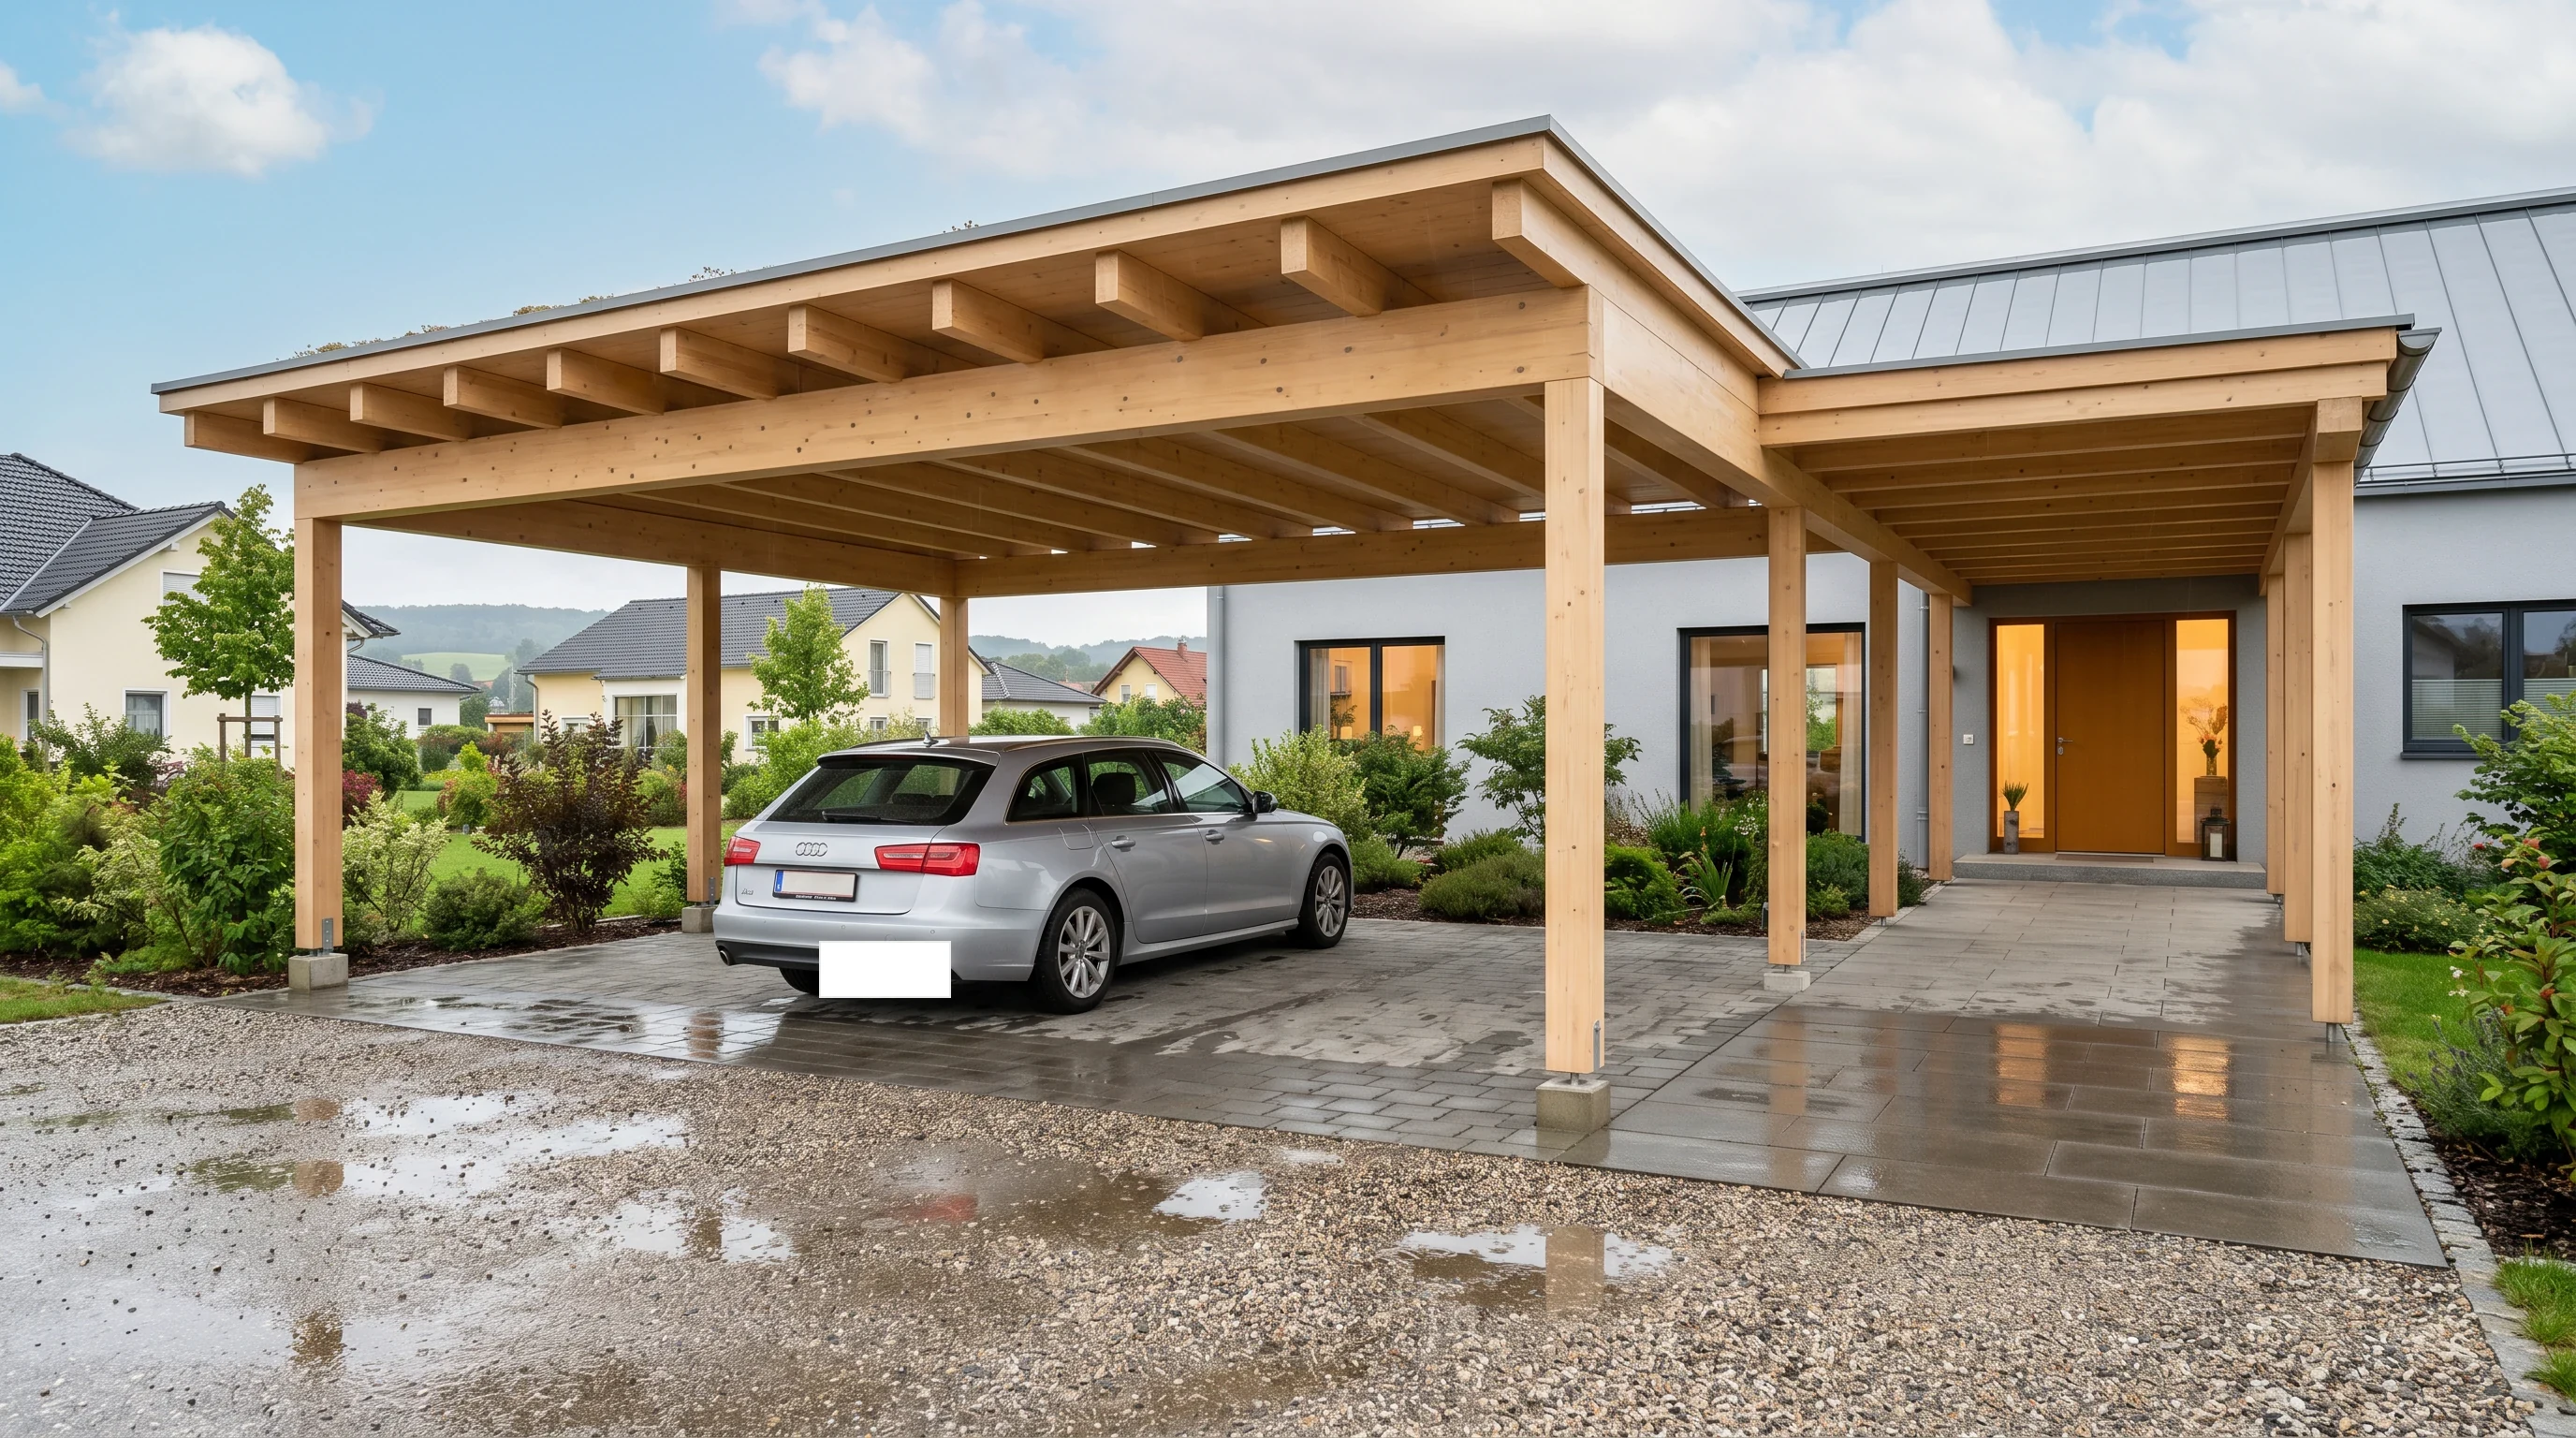
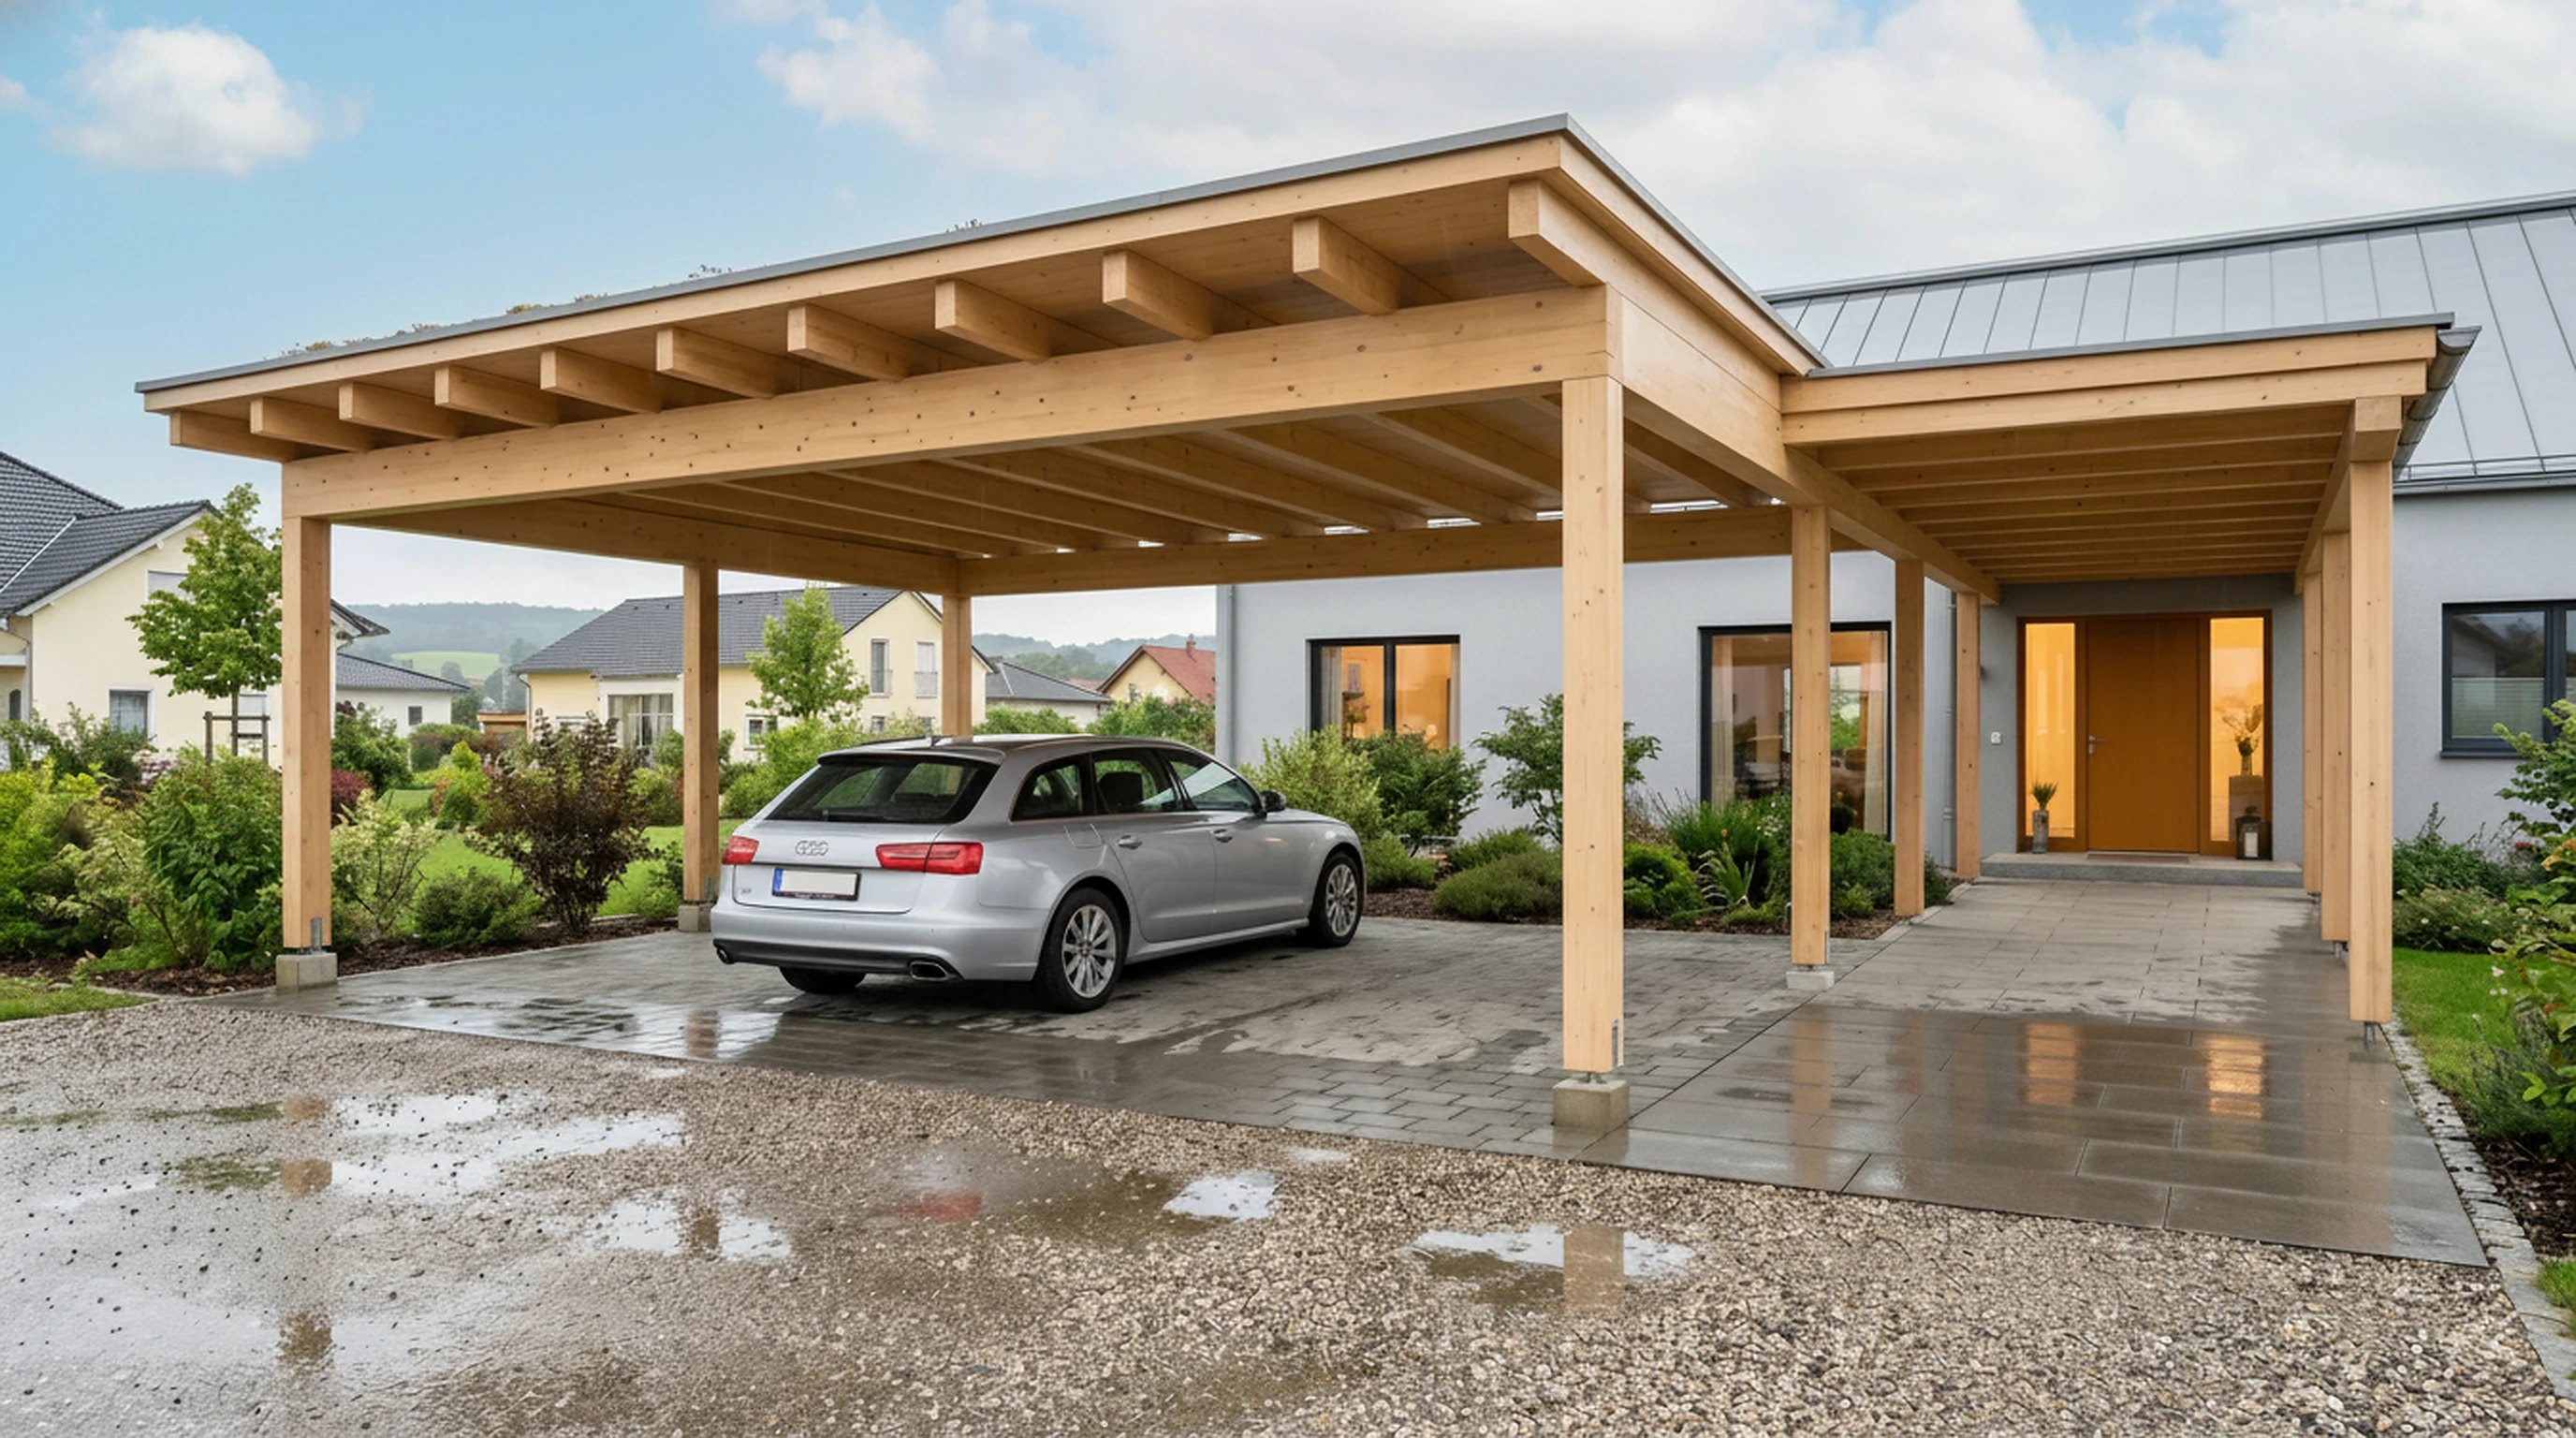
Fix carport gallery image artifacts

diff --git a/index.html b/index.html
@@ -1772,9 +1772,9 @@
             <figure class="scroll-scene"><img loading="lazy" src="assets/mp-lp-visual-plan-2026-05-27-kie/images/03_traditionell_satteldach.webp?v=20260527-layout-plates" alt="Satteldach-Carport passend zum klassischen Ziegeldach"></figure>
             <figure class="scroll-scene"><img loading="lazy" src="assets/mp-lp-visual-plan-2026-05-27-kie/images/04_landhaus_satteldach_honig.webp?v=20260527-entrance-fix" alt="Landhaus mit honigwarmem Holz-Carport und geschütztem Stellplatz"></figure>
             <figure class="scroll-scene"><img loading="lazy" src="assets/mp-lp-visual-plan-2026-05-27-kie/images/05_lfoermiger_eck_carport.webp?v=20260527-empty-fix" alt="L-förmiger Eck-Carport für schwierige Zufahrten und Nebenbereiche"></figure>
-            <figure class="scroll-scene"><img loading="lazy" src="assets/mp-lp-visual-plan-2026-05-27-kie/images/06_ueberdachter_weg_eingang-clean-kie.webp?v=20260527-clean-kie" alt="Carport mit überdachtem Weg zum Hauseingang"></figure>
+            <figure class="scroll-scene"><img loading="lazy" src="assets/mp-lp-visual-plan-2026-05-27-kie/images/06_ueberdachter_weg_eingang.webp?v=20260527-nanobanana-fix" alt="Carport mit überdachtem Weg zum Hauseingang"></figure>
             <figure class="scroll-scene"><img loading="lazy" src="assets/mp-lp-visual-plan-2026-05-27-kie/images/07_geraeteraum_holzlager_stauraum.webp?v=20260527-kie-plan" alt="Wunsch-Carport mit integriertem Stauraum für Garten und Alltag"></figure>
-            <figure class="scroll-scene"><img loading="lazy" src="assets/mp-lp-visual-plan-2026-05-27-kie/images/08_lamellenwand_wetterseite-clean-kie.webp?v=20260527-clean-kie" alt="Lamellenwand auf der Wetterseite für Schutz und Privatsphäre"></figure>
+            <figure class="scroll-scene"><img loading="lazy" src="assets/mp-lp-visual-plan-2026-05-27-kie/images/08_lamellenwand_wetterseite.webp?v=20260527-nanobanana-fix" alt="Lamellenwand auf der Wetterseite für Schutz und Privatsphäre"></figure>
             <figure class="scroll-scene"><img loading="lazy" src="assets/mp-carport-lp-balanced-2026-05-21/ref-01-car-double-clearance.webp?v=20260527-plate-safe" alt="Großzügiger Doppelcarport mit viel Bewegungsfläche"></figure>
             <figure class="scroll-scene"><img loading="lazy" src="assets/mp-lp-visual-plan-2026-05-27-kie/images/10_designer_dunkel_fassadenwand_lichtband.webp?v=20260527-no-walkway" alt="Dunkler Designer-Carport mit Fassadenwand und Lichtband"></figure>
           </div>
@@ -1785,7 +1785,7 @@
     <section class="section" id="team"><div class="wrap section-head"><div><p class="eyebrow">Werkstatt &amp; Team</p><h2>Geplant in Eisenstadt, gebaut von <span class="hl">Menschen mit Namen</span>.</h2></div><p class="lead">M&amp;P ist ein Familienbetrieb mit eigener Werkstatt, eigenen Lehrlingen und einem festen Team. Vom Aufmaß bis zur Montage liegt jeder Schritt in Händen, die Sie auf der Baustelle auch wirklich antreffen.</p></div><div class="wrap team-grid"><figure class="team-card"><div class="team-placeholder" data-ratio="3/2"><h3 class="ph-title">Team vor der Werkstatt</h3><p class="ph-note">Gruppenfoto: Peter Preissinger mit Mitarbeitern und Lehrlingen, freundlich, in Arbeitskleidung, vor Werkstatttor oder Holzlager. Querformat 3:2, Tageslicht.</p></div><figcaption>M&amp;P · Familienbetrieb seit 2004</figcaption></figure><figure class="team-card"><div class="team-placeholder" data-ratio="4/5"><h3 class="ph-title">Werkstatt-Interieur</h3><p class="ph-note">Hobelbank, Holzlager oder Abbundplatz. Warme Atmosphäre, gestapelte Lärche oder Eiche, sichtbares Werkzeug. Hochformat 4:5.</p></div><figcaption>Werkstatt · Abbund &amp; Vormontage</figcaption></figure><figure class="team-card"><div class="team-placeholder" data-ratio="4/5"><h3 class="ph-title">Hand am Holz</h3><p class="ph-note">Detailaufnahme: Hände beim Anzeichnen, Stemmen, Verbinden. Nah, Maserung sichtbar, ruhige Bildsprache. Hochformat 4:5.</p></div><figcaption>Ausführung · Handwerk im Detail</figcaption></figure></div><div class="wrap team-stats"><div class="team-stat"><b>Seit 2004</b><span>Familienbetrieb in Eisenstadt</span></div><div class="team-stat"><b>Meister &amp; Lehre</b><span>Eigene Ausbildung im Haus</span></div><div class="team-stat"><b>Eigene Werkstatt</b><span>Planung, Abbund und Montage aus einer Hand</span></div></div></section>
     <section class="section dark" id="planung"><div class="wrap section-head"><div><p class="eyebrow">Was M&P-Carports besonders macht</p><h2>Geplant, <span class="hl">bevor</span> das erste Brett bestellt wird.</h2></div><p class="lead">M&P plant Wirkung am Haus, Standsicherheit, Wasserführung, Fundamente und Alltag gemeinsam. Erst wenn diese Punkte zusammenpassen, bleibt nach der Montage wirklich Ruhe.</p></div><div class="wrap advisor-card action-advisor"><img src="assets/no-logo-workwear-2026-05-27-v2/peter_portrait_professional_workshop_plain_red_black_v2.webp?v=20260527-workshop-wood" alt="Peter Preissinger"><div class="quote-design"><p class="eyebrow">Mst. Peter Preissinger · Zimmermeister</p><blockquote>„Meine Carports passen zu 100% zum Haus — und genau deshalb schauen wir vorher so genau hin.“</blockquote><p>Proportion, Dachform, Holzbild und Position werden von M&P so gedacht, dass der Carport nicht wie nachträglich dazugestellt wirkt.</p></div></div><div class="wrap compare action-benefit-list"><article class="compare-card good"><h3>Mehr als nur ein Dach fürs Auto.</h3><ul class="icon-list"><li><img class="fa-icon" src="assets/icons/fa/ruler-combined.svg" alt="">genug Platz links und rechts vom Auto</li><li><img class="fa-icon" src="assets/icons/fa/umbrella.svg" alt="">trocken aussteigen ohne Verrenkungen</li><li><img class="fa-icon" src="assets/icons/fa/basket-shopping.svg" alt="">Einkäufe entspannt ausladen</li><li><img class="fa-icon" src="assets/icons/fa/children.svg" alt="">Kinder trocken ins Haus bringen</li><li><img class="fa-icon" src="assets/icons/fa/road.svg" alt="">auf Wunsch den Weg bis zum Eingang mitdenken</li><li><img class="fa-icon" src="assets/icons/fa/car-rear.svg" alt="">genug Tiefe für das jetzige Auto und das nächste</li><li><img class="fa-icon" src="assets/icons/fa/person-walking.svg" alt="">genug Bewegungsfläche rund ums Auto</li><li><img class="fa-icon" src="assets/icons/fa/shield-check.svg" alt="">wenn wichtig: mit Blick auf Schnee, Regen und Wetterseite</li></ul></article></div></section>
     <section class="section" id="alltag"><div class="wrap split"><figure class="feature-img"><img src="assets/mp-carport-lp-balanced-2026-05-21/hero-03-car-rain-protection.webp?v=20260527-dedupe" alt="Holz-Carport schützt Auto und Weg zum Eingang bei nasser Einfahrt"></figure><div class="split-copy"><p class="eyebrow">Alltag</p><h2>Sie merken jeden Tag, dass Ihr Carport passt.</h2><p class="lead">Genug Tiefe, bequemes Einparken, trocken aussteigen, Einkäufe ausladen: Ein guter Carport schützt das Auto und die kleinen Wege rund ums Haus.</p><ul class="icon-list"><li><img class="fa-icon" src="assets/icons/fa/umbrella.svg" alt="">Es regnet, und Sie steigen trotzdem trocken aus.</li><li><img class="fa-icon" src="assets/icons/fa/basket-shopping.svg" alt="">Die Einkäufe landen nicht zuerst im Nassen.</li><li><img class="fa-icon" src="assets/icons/fa/children.svg" alt="">Das Kind muss nicht durchs Wetter.</li><li><img class="fa-icon" src="assets/icons/fa/sun.svg" alt="">Das Auto steht im Schatten statt in der Hitze.</li><li><img class="fa-icon" src="assets/icons/fa/snowflake.svg" alt="">Im Winter ist nicht alles voll Schnee und Eis.</li><li><img class="fa-icon" src="assets/icons/fa/person-walking.svg" alt="">Sie kommen bequem ums Auto herum.</li></ul></div></div></section>
-    <section class="section"><div class="wrap section-head"><div><p class="eyebrow">Wirkung</p><h2>Zu schmal, zu wuchtig, zu nah an der Fassade — oder <span class="hl">genau richtig</span>.</h2></div><p class="lead">M&P plant den Carport so, dass Proportion, Dachform, Holzbild und Position stimmig wirken — ruhig, hochwertig und wie mit dem Haus mitgedacht.</p></div><div class="wrap compare"><article class="compare-card good"><h3>Ein Carport, der dazugehört</h3><ul class="icon-list"><li><img class="fa-icon" src="assets/icons/fa/ruler-combined.svg" alt="">der gute Proportionen hat,</li><li><img class="fa-icon" src="assets/icons/fa/house.svg" alt="">der nicht zu wuchtig wirkt,</li><li><img class="fa-icon" src="assets/icons/fa/road.svg" alt="">der zur Einfahrt passt,</li><li><img class="fa-icon" src="assets/icons/fa/house-chimney.svg" alt="">der zur Architektur passt,</li><li><img class="fa-icon" src="assets/icons/fa/circle-check.svg" alt="">und der so aussieht, als wäre er von Anfang an mitgedacht worden.</li></ul></article><article class="compare-card good"><h3>So wirkt das Haus beim Heimkommen.</h3><ul class="icon-list"><li><img class="fa-icon" src="assets/icons/fa/house.svg" alt="">Die Fassade bekommt einen Rahmen — statt eines Vorbaus.</li><li><img class="fa-icon" src="assets/icons/fa/road.svg" alt="">Die Einfahrt wirkt fertig — nicht provisorisch.</li><li><img class="fa-icon" src="assets/icons/fa/car-rear.svg" alt="">Das Auto wirkt eingeordnet — statt zufällig abgestellt.</li><li><img class="fa-icon" src="assets/icons/fa/award.svg" alt="">Das ganze Grundstück wirkt hochwertiger — ohne Umbau.</li></ul></article></div><figure class="wrap proof-band"><img src="assets/mp-lp-visual-plan-2026-05-27-kie/images/10_designer_dunkel_fassadenwand_lichtband.webp?v=20260527-no-walkway" alt="Dunkler Designer-Holzcarport mit Fassadenwand passend zum Wohnhaus"></figure><div class="wide image-band"><figure><img src="assets/mp-lp-visual-plan-2026-05-27-kie/images/01_architekt_villa_fassadenintegration.webp?v=20260527-empty-fix" alt="Holz-Carport passend zur modernen Hausfassade"></figure><figure><img src="assets/mp-lp-visual-plan-2026-05-27-kie/images/08_lamellenwand_wetterseite-clean-kie.webp?v=20260527-clean-kie" alt="Holz-Carport mit Lamellenwand auf der Wetterseite"></figure><figure><img src="assets/mp-lp-visual-plan-2026-05-27-kie/images/03_traditionell_satteldach.webp?v=20260527-layout-plates" alt="Satteldach-Holzcarport passend zum klassischen Wohnhaus"></figure></div></section>
+    <section class="section"><div class="wrap section-head"><div><p class="eyebrow">Wirkung</p><h2>Zu schmal, zu wuchtig, zu nah an der Fassade — oder <span class="hl">genau richtig</span>.</h2></div><p class="lead">M&P plant den Carport so, dass Proportion, Dachform, Holzbild und Position stimmig wirken — ruhig, hochwertig und wie mit dem Haus mitgedacht.</p></div><div class="wrap compare"><article class="compare-card good"><h3>Ein Carport, der dazugehört</h3><ul class="icon-list"><li><img class="fa-icon" src="assets/icons/fa/ruler-combined.svg" alt="">der gute Proportionen hat,</li><li><img class="fa-icon" src="assets/icons/fa/house.svg" alt="">der nicht zu wuchtig wirkt,</li><li><img class="fa-icon" src="assets/icons/fa/road.svg" alt="">der zur Einfahrt passt,</li><li><img class="fa-icon" src="assets/icons/fa/house-chimney.svg" alt="">der zur Architektur passt,</li><li><img class="fa-icon" src="assets/icons/fa/circle-check.svg" alt="">und der so aussieht, als wäre er von Anfang an mitgedacht worden.</li></ul></article><article class="compare-card good"><h3>So wirkt das Haus beim Heimkommen.</h3><ul class="icon-list"><li><img class="fa-icon" src="assets/icons/fa/house.svg" alt="">Die Fassade bekommt einen Rahmen — statt eines Vorbaus.</li><li><img class="fa-icon" src="assets/icons/fa/road.svg" alt="">Die Einfahrt wirkt fertig — nicht provisorisch.</li><li><img class="fa-icon" src="assets/icons/fa/car-rear.svg" alt="">Das Auto wirkt eingeordnet — statt zufällig abgestellt.</li><li><img class="fa-icon" src="assets/icons/fa/award.svg" alt="">Das ganze Grundstück wirkt hochwertiger — ohne Umbau.</li></ul></article></div><figure class="wrap proof-band"><img src="assets/mp-lp-visual-plan-2026-05-27-kie/images/10_designer_dunkel_fassadenwand_lichtband.webp?v=20260527-no-walkway" alt="Dunkler Designer-Holzcarport mit Fassadenwand passend zum Wohnhaus"></figure><div class="wide image-band"><figure><img src="assets/mp-lp-visual-plan-2026-05-27-kie/images/01_architekt_villa_fassadenintegration.webp?v=20260527-empty-fix" alt="Holz-Carport passend zur modernen Hausfassade"></figure><figure><img src="assets/mp-lp-visual-plan-2026-05-27-kie/images/08_lamellenwand_wetterseite.webp?v=20260527-nanobanana-fix" alt="Holz-Carport mit Lamellenwand auf der Wetterseite"></figure><figure><img src="assets/mp-lp-visual-plan-2026-05-27-kie/images/03_traditionell_satteldach.webp?v=20260527-layout-plates" alt="Satteldach-Holzcarport passend zum klassischen Wohnhaus"></figure></div></section>
     <section class="section dark"><div class="wrap split longevity-split"><div class="split-copy"><p class="eyebrow">Langlebigkeit</p><h2>Ein Carport ist ein <span class="hl">Bauwerk</span>. M&P plant ihn auch so.</h2><p class="lead">M&P plant Konstruktion, Fundamente, Wasserführung, Schneelast, Wetterseite und Nutzung so, dass der Carport über viele Jahre sicher steht und im Alltag angenehm bleibt.</p><div class="longevity-grid"><article><img class="fa-icon" src="assets/icons/fa/hammer.svg" alt=""><h3>Fundament</h3><p>Damit der Carport dauerhaft sicher steht.</p></article><article><img class="fa-icon" src="assets/icons/fa/ruler-combined.svg" alt=""><h3>Stützenpunkte</h3><p>Sauber und nachvollziehbar gesetzt.</p></article><article><img class="fa-icon" src="assets/icons/fa/water-arrow-down.svg" alt=""><h3>Wasserführung</h3><p>Damit Regen dort wegkommt, wo er wegkommen soll.</p></article><article><img class="fa-icon" src="assets/icons/fa/shield-check.svg" alt=""><h3>Dachaufbau</h3><p>Geplant für Wetter, Schneelast und Nutzung.</p></article><article><img class="fa-icon" src="assets/icons/fa/snowflake.svg" alt=""><h3>Wetterseite</h3><p>Schnee, Regen und Wind werden mitgedacht.</p></article><article><img class="fa-icon" src="assets/icons/fa/house-chimney.svg" alt=""><h3>Hausanschluss</h3><p>Anschluss an Haus und Einfahrt wirkt wie mitgeplant.</p></article><article><img class="fa-icon" src="assets/icons/fa/car-rear.svg" alt=""><h3>Maßreserve</h3><p>Mit Reserve geplant — auch das nächste Auto passt noch ohne Umbau.</p></article><article><img class="fa-icon" src="assets/icons/fa/sun.svg" alt=""><h3>Erweiterbar</h3><p>Wallbox, Solaranlage oder Stauraum lassen sich später nachrüsten.</p></article></div><aside class="pull-quote"><blockquote>Ein Carport hält am Ende nur so lange, wie er <em>am Anfang durchdacht</em> war.</blockquote><div class="pull-attr">Mst. Peter Preissinger · Zimmermeister</div></aside><p class="lead">Deshalb garantieren wir die Standsicherheit der tragenden Konstruktion schriftlich für <span class="hl">25 Jahre</span>. In der Praxis halten unsere Carports deutlich länger.</p></div><figure class="feature-img"><img src="assets/mp-carport-lp-balanced-2026-05-21/ref-01-car-double-clearance.webp?v=20260527-dedupe" alt="Großzügiger Doppelcarport aus Holz mit viel Bewegungsfläche"></figure></div></section>
     <section class="section"><div class="wrap section-head"><div><p class="eyebrow">Material und Ausführung</p><h2>Heimisches und europäisches Holz, <span class="hl">meisterhaft</span> ausgeführt.</h2></div><p class="lead">M&P arbeitet je nach Projekt mit heimischen beziehungsweise europäischen Hölzern wie Fichte, Lärche oder Eiche. Entscheidend ist am Ende die Verbindung aus Holzart, Dachkante, Anschlüssen, Auflagern, Stützenpunkten und Montage.</p></div><div class="wrap steps"><article class="step"><b>1</b><h3>Ruhige Dachkante</h3><p>Der Carport soll hochwertig wirken, nicht wuchtig.</p></article><article class="step"><b>2</b><h3>Saubere Anschlüsse</h3><p>Haus, Einfahrt und Konstruktion werden zusammen gedacht.</p></article><article class="step"><b>3</b><h3>Gute Proportionen</h3><p>Damit der Carport zur Architektur passt.</p></article><article class="step"><b>4</b><h3>Sichtbare Ausführung</h3><p>Holzdetails, die auch in Jahren noch Freude machen.</p></article></div><div class="wrap material-proof"><figure><img src="assets/mp-finished-carport-group-nologo-2026-05-27-kie/images/03_finished_group_house_context.webp?v=20260527-finished-group" alt="Peter Preissinger und M&P-Team vor einem fertiggestellten Holz-Carport"><figcaption>Fertiger Carport, klare Linien, sichtbare Ausführung: am Ende soll das Bauwerk so ruhig wirken, als hätte es immer zum Haus gehört.</figcaption></figure><article class="step"><b>5</b><h3>Kontrollierte Ausführung vor Ort</h3><p>Die Details sitzen dort, wo man sie später jeden Tag sieht: an Pfosten, Anschluss und Dachlinie.</p></article></div></section>
     <section class="section dark testimonials-section" id="kundenstimmen"><div class="wrap section-head"><div><p class="eyebrow">Kundenstimmen</p><h2>So klingt es, wenn ein Carport wirklich zum Haus passt.</h2></div><p class="lead">Echte Rückmeldungen aus Wien, Niederösterreich und dem Burgenland.</p></div>